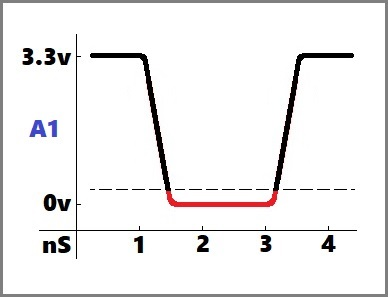
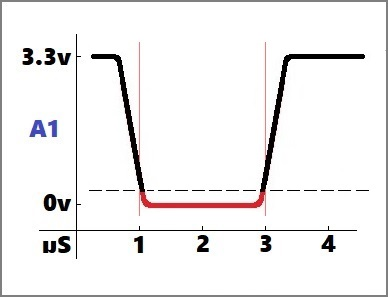
work on pin events

Changed region(s): [[0.2165, 0.1515, 0.9588, 0.7273], [0.0, 0.0, 1.0, 1.0], [0.1237, 0.7879, 0.1546, 0.8485]]

diff --git a/docs/learnsystem/pins-tutorial/digital-input/pin-events.md b/docs/learnsystem/pins-tutorial/digital-input/pin-events.md
@@ -1,41 +1,168 @@
 # Pin Events
 
-## Pulse High
+Instead of continually reading the value of a pin input, you can have code to run when an input level changes on a pin. These are pin events and they are triggered when an input switches from one level to another or if the input level is beginning to change.
 
-![Falling input pin event](/static/cp/learn/pins-tutorial/pin-event-high.jpg)
+## Pulses
+
+Information is often communicated between digital circuits using _pulses_. A pulse is a change in voltage level for brief period time. Usually for microseconds or even a shorter amount of time, like nanoseconds.
+
+### Digital data signals #data-signals
+
+Data is transmitted between digital circuits using changes between high and low voltage levels. A change to high can mean a signal for the value of `1`. The change down to low can mean a signal for the value of `0`. One of these signals can represent a binary digit, or _bit_. Combining several digital signals will form a binary number which can represent some type of data.
+
+In the diagram below, a pulse is created every 4 microseconds to signal a binary digit. If the value of the **A1** pin is read repeatedly at the proper time, a binary number can be assembled. Here, the first digit is a `1`, the second a `0`, and then `1` and another `1`. Together they form the binary number `1101` when each bit received is the next greater digit of the number. This is a 4 bit number is which equals `13` in decimal. 
+
+![Pulsed data signal](/static/cp/learn/pins-tutorial/digital-input/pulsed-signal.jpg)
+
+Another way to signal data is to keep the signal level constant while the a value represented is the same. More values  might be read by pin **A1** in the same amount of time.
+
+![Logic level data signal](/static/cp/learn/pins-tutorial/digital-input/logic-level-signal.jpg)
+
+There are many more ways to signal digital data. Transmiting and receiving data by digital signals is part of the science of _data communications_.
+
+### Clock signals
+
+Timing events is an important part of digital electronics. Actions in a computer are sequenced by a system clock. This clock is actually a digital signal using continuous pulses that occur at a regular interval. In fact, each part of a program on your @boardname@ is run in the microcontoller at a certain time that's controlled by a clock signal. A clock signal at pin **A2** is shown in the following diagram.
+
+![Clock signal pulses](/static/cp/learn/pins-tutorial/digital-input/clock-signal.jpg)
+
+A pulse going high occurs during a 2 microsecond period of time. The pulses repeat their shape every 4 microseconds though. This 4 microsecond time span is also the _period_ of the clock signal which makes it have a _frequency_ of 250 kilohertz (kHz). The clock signal on your @boardname@ repeats itself millions of times a second so it's measured in megahertz (mHz).
+
+Often a clock signal received at one pin is use to to tell your program when to read a data signal at another pin. If the **A1** pin is receiving a data signal and the **A2** pin input is a clock signal, then the input at **A1** is valid when a pin event happens at **A2**. This is called _clocking_ the input or you can say that pin **A1** is a _clocked_ input.
+
+## Pulse events
+
+You can have your program wait for a pin input to be pulsed. A pulse is detected at a pin if the input level changes to high or low, stays that way for some amount of time, and then returns back to the input level it was before. The amount of time that the pin is at this new logic level is called the _pulse width_. This is the period of time between when the new input level is detected and when it starts to change back again.
+
+
+There are two events to detect a pulse:
+
 
 ```block
 pins.A1.onEvent(PinEvent.PulseHigh, function () {
 	
 })
+pins.A1.onEvent(PinEvent.PulseLow, function () {
+	
+})
+```
+
+### Pulse high
+
+The ``||pins:on pin pulse high||`` event occurs when the pin input changes to the high level, stays there for some time, and then drops back to low. This diagram shows that the pin **A1** input went to the high level and stayed there for 2 microseconds. If there was a pin event for pulse high in your program, the code inside would've executed right after the 2 microseconds passed and the input level started to fall to low.
+
+![Pin pulse high event diagram](/static/cp/learn/pins-tutorial/digital-input/pin-event-high.jpg)
+
+If we want to code an event to read digital numbers from a pin (as discussed in [Digital data signals](/learnsystem/pins-tutorial/digital-input/pin-events#data-signals)), we could put it in a ``||pins:on pin pulse high||`` event. We'll code the event for the clock signal on pin **A2** and the data signal is read from **A1**. The bits are accumulated until an 8 bit number is formed. Then, each 8 bit number is stored in a data array.
+
+```blocks
+let pinData: number[] = []
+let digitalNum = 0
+let bits = 0
+pins.A2.onEvent(PinEvent.PulseHigh, function () {
+    if (bits > 7) {
+        pinData.push(digitalNum)
+        digitalNum = 0
+        bits = 0
+    }
+    digitalNum = digitalNum * 2
+    if (pins.A1.digitalRead()) {
+        digitalNum += 1
+    }
+    bits += 1
+})
 ```
 
 ### Pulse Low
 
-![Falling input pin event](/static/cp/learn/pins-tutorial/pin-event-low.jpg)
+The ``||pins:on pin pulse low||`` event works in the same way as ``||pins:on pin pulse high||`` except that the pulse is detected when the input voltage on the pin is near the low level. The diagram shows that the pin **A1** input went to the low level and stayed there for 2 microseconds. If there was a pin event for pulse low in your program, the code inside would’ve executed right after the 2 microseconds passed and the input level started to rise to high.
+
+
+![Falling input pin event](/static/cp/learn/pins-tutorial/digital-input/pin-event-low.jpg)
+
+The pulse low event can be used for a negative logic signal. For example, a pushbutton or keyboard switch could ground a pin input (set the pin voltage to **GND**) to signal a key press. You could code a key press event like this:
+
+```blocks
+let keyPresses: string[] = []
+let keyTime = 100000
+pins.A1.setPull(PinPullMode.PullUp)
+pins.A1.onEvent(PinEvent.PulseLow, function () {
+    if (pins.pulseDuration() > keyTime) {
+        keyPresses.push("A1")
+    }
+})
+```
+
+If we had a rule that the valid time for a key press was at least one-tenth of a second long, then we can add a check for the pulse duration to see if the pulse lasted for more than `100000` microseconds. This is the pulse width for the key press.
+
+### Pulse width
+
+To find out how long a pulse lasted, you can read the duration of the last pulse. You do this inside the event where the pulse type was detected using ``||pins:pulse duration||``.
+
+```blocks
+let pulseTime = 0
+pins.A1.onEvent(PinEvent.PulseHigh, function () {
+    pulseTime = pins.pulseDuration()
+})
+```
+
+A pulse can also be used to encode a value. If a pin is expecting a pulse input to happen at a regular interval, the width of the pulse can change to be a fraction of the interval time. This fraction, or ratio, represents a percentage of the total interval time. If the an interval is 100 milliseconds, a pulse width of 40 milliseconds is 40% of the interval. If the pulse width changes, different ratios are input and can represent different values. This type of signalling is used for _pulse width modulation (pwm)_.
+
+## Edge events
+
+A pulse event has a duration which my last too long to properly signal a new level change if data inputs are happening rapidly. Instead of waiting for a full pulse to occur before pin event happens, you can have an event for _edge detection_. An edge event happens when there is just a change the in input level. If the pin input is changing from low to high, the input is _rising_. When the input level is going from high to low then the input is _falling_. The events for these are called edge events because they happen at the edge of the signal pattern when shown on a diagram.
+
+Here are the events for edge detection:
 
 ```block
-pins.A1.onEvent(PinEvent.PulseLow, function () {
+pins.A1.onEvent(PinEvent.Rise, function () {
+	
+})
+pins.A1.onEvent(PinEvent.Fall, function () {
 	
 })
 ```
 
 ### Rising Edge
 
-![Rising input pin event](/static/cp/learn/pins-tutorial/pin-event-rise.jpg)
+If drawn in a diagram, the change in pin input from low to high creates an edge on the signal pattern that's like climbing a hill or going up a cliff side. This is the part of the diagram that shows the signal _rising_. If the input voltage goes from **GND** to  **3.3V**, the pin can be set to detect this change.
 
-```block
-pins.A1.onEvent(PinEvent.Rise, function () {
-	
+![Rising input pin event](/static/cp/learn/pins-tutorial/digital-input/pin-event-rise.jpg)
+
+When a pin is receiving pulse inputs, an ``||pins:on pin rise||`` will trigger at the beginning of the pulse. This is useful for detecting the next period of a clock signal input. If using a pulse event, only the time of the pulse with is detected. That was 2 microseconds in our previous example. If a ``rise`` event is used, the event will trigger only at the beginning of each clock cycle which is 4 microseconds long.
+
+Now with the digital number input example, instead of using a pulse event, we can use a rise event to read in our numbers:
+
+```blocks
+let pinData: number[] = []
+let digitalNum = 0
+let bits = 0
+pins.A2.onEvent(PinEvent.Rise, function () {
+    if (bits > 7) {
+        pinData.push(digitalNum)
+        digitalNum = 0
+        bits = 0
+    }
+    digitalNum = digitalNum * 2
+    if (pins.A1.digitalRead()) {
+        digitalNum += 1
+    }
+    bits += 1
 })
 ```
 
 ### Falling Edge
 
-![Falling input pin event](/static/cp/learn/pins-tutorial/pin-event-fall.jpg)
+A pin can detect when an input signal is changing from a high to low voltage level (**3.3V** to **GND**). This is shown in a signal diagram as going down a hill or a cliff. This is called the _falling_ edge of the signal. When the pin input is a pulse, the falling edge is the when the pulse ends.
 
-```block
+![Falling input pin event](/static/cp/learn/pins-tutorial/digital-input/pin-event-fall.jpg)
+
+As an example, you could have a micro switch next to a doorway that breaks a closed circuit from pin **A1** to **3.3V** when the door is opened. The input from the switch changing could signal an entry alarm. If the door is opened, the switch causes the input at the pin to go to **GND**, or to fall.
+
+```blocks
 pins.A1.onEvent(PinEvent.Fall, function () {
-	
+    light.showAnimation(light.rainbowAnimation, 500)
+    music.playSoundUntilDone(music.sounds(Sounds.Wawawawaa))
 })
+pins.A1.setPull(PinPullMode.PullDown)
 ```

diff --git a/docs/learnsystem/pins-tutorial/digital-input/input-states.md b/docs/learnsystem/pins-tutorial/digital-input/input-states.md
@@ -1,12 +1,33 @@
-# Input States
+# Input states
 
 If you read a digital pin that isn't connected to anything what value will it be? Well, you don't really know unless the pin is physically set to a default input state. Most of the time a input pin is set to either read a `true` or `false` by default by _pulling_ the pin input high or low. A pull is a physical connection of the pin to either the supply voltage (**3.3V**) or **GND**. This is done inside the microcontroller using a built-in resistor that connects the pin to the high or low voltage source. So, if you read the pin when no input signal is present, it will read the value of the pull direction: `down = low` and `up = low`.
 
 ## Pull down
 
+In order to have a pin read `false` by default, a pin is _pulled down_. This means that the pin is connected to low voltage so that it always reads `false` when no external voltage signal is present at its input. The pin will read `true` when an external voltage is applied to the pin that is near 3.3 v.
+
+The pull _direction_ is set with the ``||pins:set pull pin||`` block:
+
 ```block
 pins.A1.setPull(PinPullMode.PullDown)
 ```
+
+In this simple example, the pull direction is down and the pixels will turn red when pin **A1** is connected to a high voltage.
+
+```blocks
+pins.A1.setPull(PinPullMode.PullDown)
+forever(function() {
+    if (pins.A1.digitalRead()) {
+        light.setAll(0xff0000)
+    } else {
+        light.clear()
+    }
+})
+```
+
+The condition in the ``||logic:if||`` block that causes the pixels to "turn on" is called _positive_ logic. The pixels turn on when the input state goes from low to high, in the positive direction.
+
+In the following diagram, you see a resistor connecting the **A1** pin to **GND**, or low voltage. The this connection is shown inside a dashed box which means this happens inside the microcontroller when you pull the **A1** pin down with ``||pins:set pull pin||``.
 
 ![Pin pulled down diagram](/static/cp/learn/pins-tutorial/digital-input/pin-pulldown.jpg)
 
@@ -33,9 +54,30 @@ if (pins.A1.digitalRead()) {
 
 ## Pull up
 
+To have a pin read `true` by default, a pin is _pulled up_. This means that the pin is connected to high voltage so that it always reads `true` when no external voltage signal is present at its input. The pin will read `false` when an external voltage is applied to the pin that is near 0 v.
+
+The pull _direction_ is set to `down` with the ``||pins:set pull pin||`` block:
+
 ```block
 pins.A1.setPull(PinPullMode.PullUp)
 ```
+
+In this example, the condition is opposite that of when the pull was down. The pull direction is now up and the pixels will turn red when pin **A1** is connected to a low voltage.
+
+```blocks
+pins.A1.setPull(PinPullMode.PullUp)
+forever(function() {
+    if (!pins.A1.digitalRead()) {
+        light.setAll(0xff0000)
+    } else {
+        light.clear()
+    }
+})
+```
+
+The condition in the ``||logic:if||`` block that causes the pixels to "turn on" here uses _negative_ logic. The pixels turn on when the input state goes from high to low, in the negative direction.
+
+In the following diagram, you see a resistor connecting the **A1** pin to **3.3V**, or high voltage. This time the connection shown inside the dashed box shows how the microcontroller pulls the **A1** pin up when you set the pull to up with ``||pins:set pull pin||``.
 
 ![Pin pulled up diagram](/static/cp/learn/pins-tutorial/digital-input/pin-pullup.jpg)
 
@@ -62,14 +104,20 @@ if (pins.A1.digitalRead()) {
 
 ## Floating
 
+When a pin has no pull direction you can't be sure a `true` or a `false` is read for the pin. This is because the voltage level at the pin input is unknown. This input state is indeterminate and the pin has a _floating_ input because the voltage level could be either high or low. On the @boardname@ a pin is floating when you set the pull direction to `none`:
+
 ```block
 pins.A1.setPull(PinPullMode.PullNone)
 ```
+The diagram below shows the **A1** pin in a floating state since there is no pull resistor holding it to any voltage level.
+
 ![Floating pin diagram](/static/cp/learn/pins-tutorial/digital-input/pin-floating.jpg)
 
-### ~ hint
+If you did the [Touch high and low](/learnsystem/pins-tutorial/digital-input/read-pin#experiment-01) experiment in the [Read a pin](/learnsystem/pins-tutorial/digital-input/read-pin) section, you may have noticed that pixels sometimes changed color between touches of the clip. This is because the **A1** pin had a floating input until you connected it to **3.3V** or **GND**.
 
-**Mini-experiment: Floating pin test**
+### Experiment: Floating pin test
+
+---
 
 **Setup**: Connect an alligator clip lead to the the **A1** pin. Clip another lead to the **GND** pin. Download the following code to the board:
 
@@ -86,9 +134,11 @@ if (pins.A1.digitalRead()) {
 
 **Result**: The pixels show blue since ``||pins:digital read pin||`` returns `true`.
 
-### ~
+---
 
 ## External pull
+
+Sometimes an electronic device connected to the pin on the @boardname@ will determine the pull direction. In that case, the device uses its own pull resistor to set the pull direction. The pull for the pin is set to `none` since the board isn't going to control the pull direction.
 
 ![Floating pin diagram](/static/cp/learn/pins-tutorial/digital-input/external-pull.jpg)
 

diff --git a/docs/learnsystem/pins-tutorial/digital-input/read-pin.md b/docs/learnsystem/pins-tutorial/digital-input/read-pin.md
@@ -6,6 +6,8 @@ A digital read operation just returns a `true` if the input voltage on the pin i
 let inputValue = pins.A1.digitalRead()
 ```
 
+## Pin input
+
 A pin has a small range of voltage where it detects the input level as high. The diagram below shows that the **A1** pin is at the high level when its input voltage is in the range where the graph shows red.
 
 ![Pin input is high](/static/cp/learn/pins-tutorial/digital-input/pin-level-high.jpg)
@@ -14,10 +16,7 @@ The second diagram is for the opposite condtion when the input level is low. At 
 
 ![Pin input is low](/static/cp/learn/pins-tutorial/digital-input/pin-level-low.jpg)
 
-### ~ hint
-
-**Mini-experiment: Connect high and low**
-
+### Experiment: Touch high and low #experiment-01
 ---
 
 **Setup**:
@@ -44,7 +43,13 @@ forever(function () {
 
 **Result**: The pixels show a different color for each input level, high and low.
 
-### ~
+#### ~ hint
+
+Did you notice that sometimes the pixels changed color when your alligator clip wasn't touching either **3.3V** or **GND**. This is because the **A1** pin has a _floating_ input state. The reason for this is discussed in the [Input states](/learnsystem/pins-tutorial/digital-input/input-states) section.
+
+#### ~
+
+---
 
 ## Switches and Buttons
 
@@ -62,12 +67,13 @@ In both circuits is light is the load for the power supply in the battery. Curre
 
 Digital input electronics are designed to use an exrtremely small amount current when connected to a voltage source, like with the switch shown. The purpose is only to detect the voltage level present at the pin.
 
-**Note**: Not all digital electronics will let you connect an input pin directly to a voltage source. Doing so can cause too much current to flow through the pin circuit possibly damaging it. Often a resistor is need between the in and the voltage supply to protect the input circuit. Fortunately, the @boardname@ has it's own protection for this allowing you to safely connect the pins to a voltage of 3.3V or less.
-
 ### ~ hint
 
-**Mini-experiment: Switch pin input to high**
+**Note**: Not all digital electronics will let you connect an input pin directly to a voltage source. Doing so can cause too much current to flow through the pin circuit possibly damaging it. Often a resistor is need between the in and the voltage supply to protect the input circuit. Fortunately, the @boardname@ has it's own protection for this allowing you to safely connect the pins to a voltage of 3.3V or less.
 
+### ~
+
+### Experiment: Switch pin input to high #experiment-02
 ---
 
 **Setup**: Connect an alligator clip lead to the the **A1** pin. Clip another lead to the **3.3V** pin. Connect the other ends of the each lead to a terminal on a light switch.
@@ -93,4 +99,4 @@ forever(function () {
 
 **Optional test**: If you have a pushbutton to use, connect it to the @boardname@ like you did with the light switch. The LEDs should show yellow when you press the button down.
 
-### ~ 
+---
